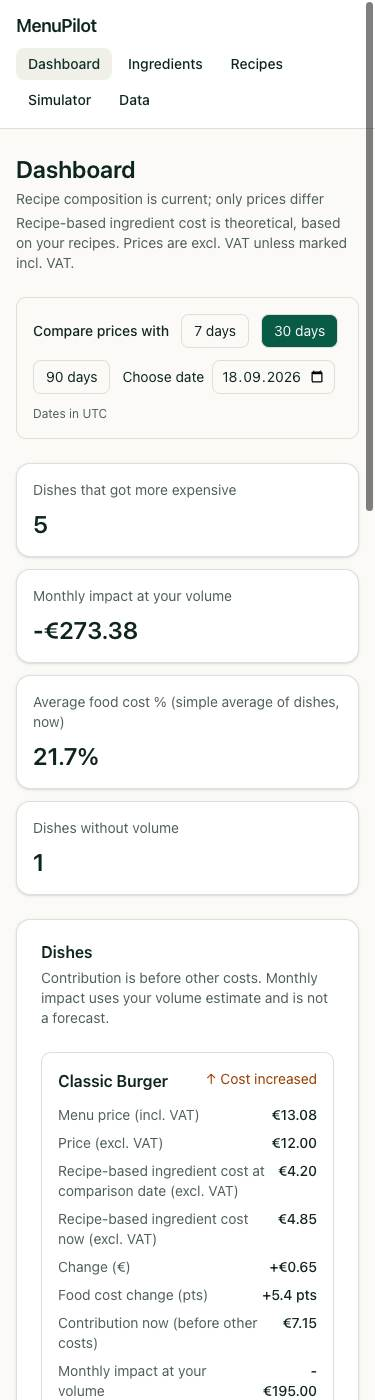
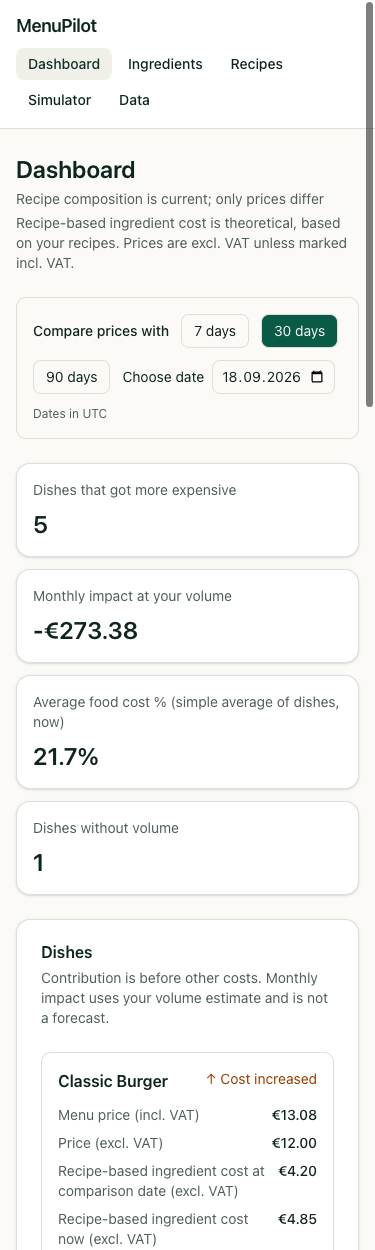
docs: README for the portfolio, stage status in the plan

diff --git a/README.md b/README.md
@@ -1,11 +1,87 @@
 # MenuPilot
 
-MenuPilot is a small browser app for recipe-based ingredient costing and what-if contribution scenarios for independent restaurants. It is a work in progress: the app shell, navigation and a Dashboard preview are in place; ingredient and recipe editing and the Profit Simulator come in later stages.
+**Live demo: <https://gadzhaprod.github.io/menupilot/>** (fictional demo data, runs entirely in your browser)
 
-## Requirements
+MenuPilot is a small web app for independent restaurant owners. It turns recipes and supplier prices into a clear answer to one question: *"My supplier raised a price. What does that do to my dishes and to my month, and what should I change?"*
 
-- **Node.js** `^20.19.0`, `^22.13.0` or `>=24` (the range Vite 8 and the test tools support; CI uses Node 24).
-- **Browsers** (set by Tailwind CSS v4): Safari 16.4+, Chrome 111+, Firefox 128+.
+![Dashboard: dishes that got more expensive over the last 30 days, with monthly impact at the owner's own sales estimate](docs/screenshots/dashboard.jpg)
+
+## Problem
+
+Supplier prices keep changing. An owner sees a new invoice but cannot quickly tell:
+
+- which dishes now cost more to make, and by how much;
+- how much contribution is lost per month at current sales;
+- what happens if the menu price goes up, or a portion gets smaller;
+- which of those options is better.
+
+## Solution
+
+MenuPilot keeps ingredients with their price history, builds dish and prep (sub-recipe) costs from them, shows what changed since a chosen date, and lets the owner play out decisions in a **Profit Simulator** without touching real data.
+
+## Key features
+
+- **Dashboard.** Compare costs now against 7 / 30 / 90 days ago, or any date. Per dish: ingredient cost then and now, change in euros and in food-cost points, contribution now, and the monthly impact at the owner's own volume estimate. Preps are listed separately with their cost per kg, l or pc.
+- **Profit Simulator.** For one dish, try a new menu price, new ingredient pack prices, other quantities and your own sales estimate. Up to three scenarios (A, B, C) are compared side by side with **Baseline** (today's real data), with differences per portion and per month. Scenarios are saved separately with their own baseline snapshot and never change real prices or recipes.
+- **Preps and sub-recipes.** A sauce, dough or stock is a recipe of its own that dishes use. An ingredient price change flows through every level (up to 5). Cycles are rejected; an unknown price makes every parent show "cost unknown" instead of a wrong number.
+- **Price history.** Ingredient prices are append-only. The current price is the latest entry and older ones stay visible.
+- **VAT handling.** The menu price is entered incl. VAT (9% or 21%); all calculations use the price excl. VAT. Every price on screen is labelled "incl. VAT" or "excl. VAT".
+- **Backup.** The *Data* page exports all data as one JSON file, imports it back (atomic: a bad file changes nothing) and resets to the demo data.
+
+| Simulator with three scenarios | Recipe with a prep |
+|---|---|
+| ![Simulator: Baseline compared with three scenarios](docs/screenshots/simulator.jpg) | ![Recipe: Classic Burger uses the Burger sauce prep and shows its cost summary](docs/screenshots/recipe.jpg) |
+
+| Ingredient price history | On a phone (375 px) |
+|---|---|
+| ![Price history dialog of an ingredient](docs/screenshots/ingredient-history.jpg) | ![Dashboard on a 375 px wide screen](docs/screenshots/mobile-dashboard.jpg) |
+
+## Important to know
+
+- **Contribution is not profit.** "Contribution" is the menu price excl. VAT minus the recipe-based ingredient cost. It is *before* labour, rent and all other costs. MenuPilot never calls it profit.
+- **Ingredient cost is theoretical.** "Recipe-based ingredient cost" is what the recipe should cost, not what was actually used (waste and over-portioning are not measured).
+- **Scenarios are not forecasts.** They are calculations on the numbers you type, including your own monthly sales estimate. MenuPilot does not predict demand.
+- **Your data lives in your browser.** There is no server and no account. Clearing browser data, or using private mode, can erase it. Export a backup regularly.
+
+## How MenuPilot differs
+
+Tools such as Apicbase, meez, MarketMan and Restaurant365 are broad restaurant operations systems (inventory, purchasing, POS and more), built mainly for multi-location businesses. MenuPilot is deliberately much smaller: a fast scenario calculator for a single restaurant. In the public materials I looked at, I did not find an interface that compares a Baseline with scenarios A/B/C for one dish side by side. That is a statement about what I found, not a claim that no such feature exists anywhere. This is not a comparison of quality or price.
+
+## Architecture
+
+```
+  Screens (React 19, Tailwind v4, shadcn/ui)       src/ui/pages, layout, dashboard, simulator
+        │
+  Typed adapter (readonly TS types, BigInt results) src/ui/domain/*.ts
+        │
+  ┌─────┴───────────────┐
+  │ src/calc  (pure)    │  all formulas, BigInt, no I/O, no DOM
+  │ src/store (JSDoc JS)│  validation, versioned JSON document, import/export
+  └─────────────────────┘
+        │
+  localStorage  (static app, no backend, deployed to GitHub Pages)
+```
+
+- The store is the single source of truth. A command runs outside React's reducers; on success the new document replaces the one on screen, on failure the screen keeps the old document and shows the error.
+- Only the document is saved. Calculation results are derived with `useMemo` and never stored.
+- Hash routes (`#/`, `#/ingredients`, `#/recipes`, `#/recipe/:id`, `#/simulator/:id`, `#/data`) work on GitHub Pages.
+- Planning documents (product spec, architecture, implementation plan) are in [docs/planning](docs/planning/).
+
+## Money and rounding
+
+- Money is stored as **integer euro cents**. No floats are used for money, and user decimals are parsed from strings, never with `parseFloat`.
+- Inside `src/calc` costs are **integer micro-euros** (1 € = 1 000 000 µ€) in `BigInt`.
+- The only rounding operation is `roundDiv`: division rounded **half away from zero**, the same for positive and negative numbers. It is applied only at the points listed in the rounding contract (section 6 of [03_ARCHITECTURE.md](docs/planning/03_ARCHITECTURE.md)), for example once per recipe line and when a value is shown in cents.
+- Scenario differences are computed from the displayed (already rounded) values, so the screen always adds up.
+
+## Testing
+
+```sh
+npm test          # test:core (node:test) + test:ui (Vitest, Testing Library, jsdom)
+npm run check     # typecheck + all tests + production build
+```
+
+Last run: **301 tests, all passing** (122 core tests for calculations and store; 179 UI tests). Calculation changes are written test-first. Tests use in-memory storage only: no network, no external services. The UI was also checked by hand in a real browser at desktop width and at 375 px (screenshots above). Browser end-to-end tests (Playwright) are not part of the MVP.
 
 ## Run locally
 
@@ -15,37 +91,35 @@ npm run dev       # development server, http://localhost:5173/
 npm run build     # production build into dist/ (base path /menupilot/)
 npm run preview   # serve dist/ at http://localhost:4173/menupilot/
 npm run typecheck # tsc --noEmit
-npm run test:core # calculation and store tests (node:test)
-npm run test:ui   # screen and routing tests (Vitest + Testing Library, jsdom)
-npm test          # both test suites
-npm run check     # typecheck + tests + build: run this before every commit
+npm run check     # typecheck + tests + build
 ```
 
 Money input accepts a decimal comma or point and rejects thousands separators.
 
-## How it is built
+## Requirements
 
-- `src/calc/`, `src/store/`: calculation core and data store. Plain JavaScript with JSDoc, no dependencies, money as integers (BigInt inside `calc`). The UI never re-implements a formula.
-- `src/ui/`: the screens (Vite + React 19 + TypeScript + Tailwind CSS v4).
-  - `domain/`: the typed boundary to the core: document types (read-only), types of the BigInt calculation results, and the only place the UI imports `src/calc` and `src/store` from. `core.d.ts` declares the core's types by hand; a test checks that the declared exports exist.
-  - `data/`: the store is the single source of truth. A command runs the store method outside the reducer; on success the new document replaces the one on screen, on failure the screen keeps the old document and shows the error.
-  - `router/`: a small hash router (`#/`, `#/ingredients`, `#/recipe/:id`, `#/simulator/:id`) that works on GitHub Pages.
-  - `pages/`, `layout/`: screens and the page shell.
-- `src/components/ui/`: shadcn/ui components (`button`, `card`, `table`). `@` is an alias for `src`.
-- `test/calc`, `test/store`: core tests. `test/ui`: UI tests.
-
-Only the document is stored (in `localStorage`); calculation results are recomputed and never saved.
+- **Node.js** `^20.19.0`, `^22.13.0` or `>=24` (the range Vite 8 and the test tools support; CI uses Node 24).
+- **Browsers** (set by Tailwind CSS v4): Safari 16.4+, Chrome 111+, Firefox 128+.
 
 ## Deployment
 
-Every push to `main` runs typecheck, tests and build in GitHub Actions (`.github/workflows/pages.yml`) and publishes `dist/` to GitHub Pages at `/menupilot/`. Pages must be enabled once in the repository settings (Source: GitHub Actions). Other branches and pull requests run the same checks in `ci.yml`.
+Every push to `main` runs typecheck, tests and build in GitHub Actions (`.github/workflows/pages.yml`) and publishes `dist/` to GitHub Pages at `/menupilot/`. Other branches and pull requests run the same checks in `ci.yml`.
 
-## UI components from 21st.dev
+## What was reused and what was built
 
-21st.dev is used only through `sh scripts/21st.sh` (search, code, themes). The API key lives in the git-ignored `.env.local`, and never in client code, `VITE_*` variables or logs. A component's code is copied only if its licence is clearly permissive (MIT, Apache-2.0, BSD, ISC): the full licence text goes to `third_party/21st/<slug>/LICENSE`, the file gets a header comment, and `THIRD_PARTY_NOTICES.md` an entry. A missing or unclear licence means the code is not copied (and not paraphrased); use another component or build it from shadcn primitives.
+**Reused**
 
-See [planning documents](docs/planning/) for the approved architecture and implementation plan. Third-party licences: [THIRD_PARTY_NOTICES.md](THIRD_PARTY_NOTICES.md).
+- Ideas about base units, yield % and costing excl. VAT, inspired by [kitchen-costing-for-claude-code](https://github.com/Enterprise-DNA-OS/kitchen-costing-for-claude-code) (MIT, Enterprise DNA). No code was copied.
+- [shadcn/ui](https://ui.shadcn.com) components (MIT), adapted in `src/components/ui/`.
+- Two [21st.dev](https://21st.dev) components, both MIT: Badge Delta and Alert with Action Buttons (adapted). Licence texts are in `third_party/21st/`.
+- Open-source dependencies (React, Vite, Tailwind CSS, Radix UI, lucide-react and others), pinned to exact versions in the lockfile.
 
-## Acknowledgements
+All notices and licences: [THIRD_PARTY_NOTICES.md](THIRD_PARTY_NOTICES.md).
 
-Ideas about base units, yield, and cost excluding VAT were inspired by [kitchen-costing-for-claude-code](https://github.com/Enterprise-DNA-OS/kitchen-costing-for-claude-code), MIT licensed, by Enterprise DNA. No code was copied.
+**Built for this project:** the calculation core (`src/calc`), the data store and validation (`src/store`), the Profit Simulator, the Dashboard and all screens.
+
+**Development process.** MenuPilot was built with AI coding agents under a human product owner, who set the scope and approved each stage. The plan, architecture decisions and agent rules are in [docs/planning](docs/planning/) and [AGENTS.md](AGENTS.md).
+
+## Demo data
+
+The demo restaurant, its dishes, suppliers and prices are fictional.

diff --git a/docs/planning/04_IMPLEMENTATION_PLAN.md b/docs/planning/04_IMPLEMENTATION_PLAN.md
@@ -1,5 +1,7 @@
 # 04. План реализации MenuPilot (MVP)
 
+**Статус:** этапы 0–7 выполнены (каркас, расчёты, симуляция, хранилище, UI ингредиентов и рецептов, Dashboard, Profit Simulator, резервные копии, полировка и README). Демо: https://gadzhaprod.github.io/menupilot/
+
 Основа — архитектура из `03_ARCHITECTURE.md`. Каждый этап завершается коммитом, отчётом владельцу по 6 пунктам (см. `05_AGENT_RULES_DRAFT.md`) и прогоном `npm run check`. Код каждого этапа проверяет независимый ревьюер другого вендора.
 
 Сложность: **S** — до 2 ч, **M** — 2–4 ч, **L** — 4–8 ч.
